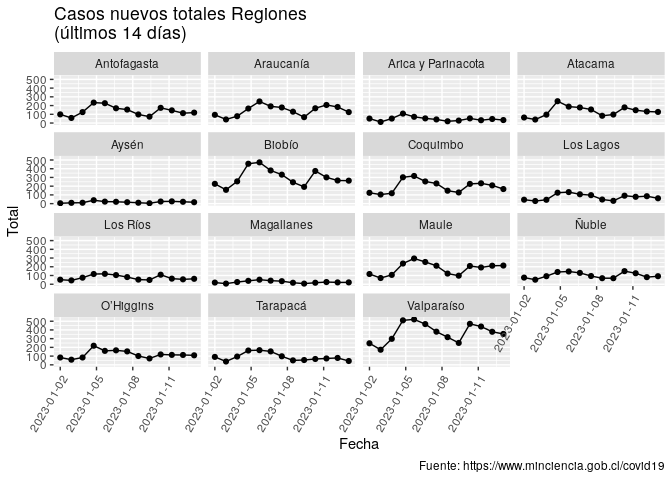
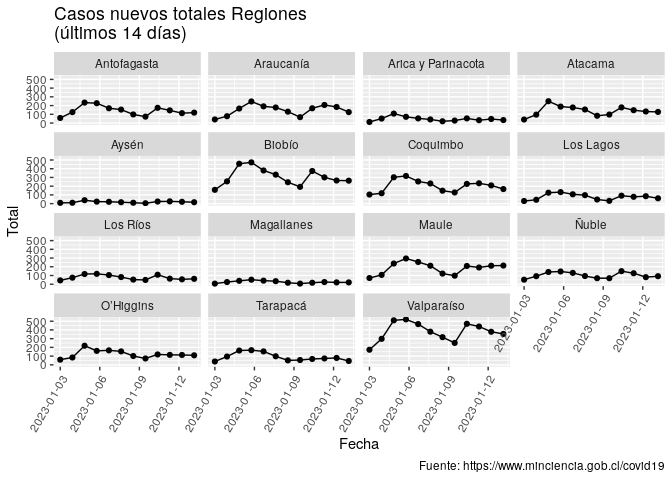
Re-build Rmarkdown files

diff --git a/README.md b/README.md
@@ -3,7 +3,7 @@
 
 Ejemplo de uso de total\_casos de COVID recopilados por el Ministerio de
 Ciencia de Chile <https://www.minciencia.gob.cl/covid19>. Última
-actualización: 2023-01-15
+actualización: 2023-01-16
 
 ## Visualización desde el comienzo de la pandemia
 
